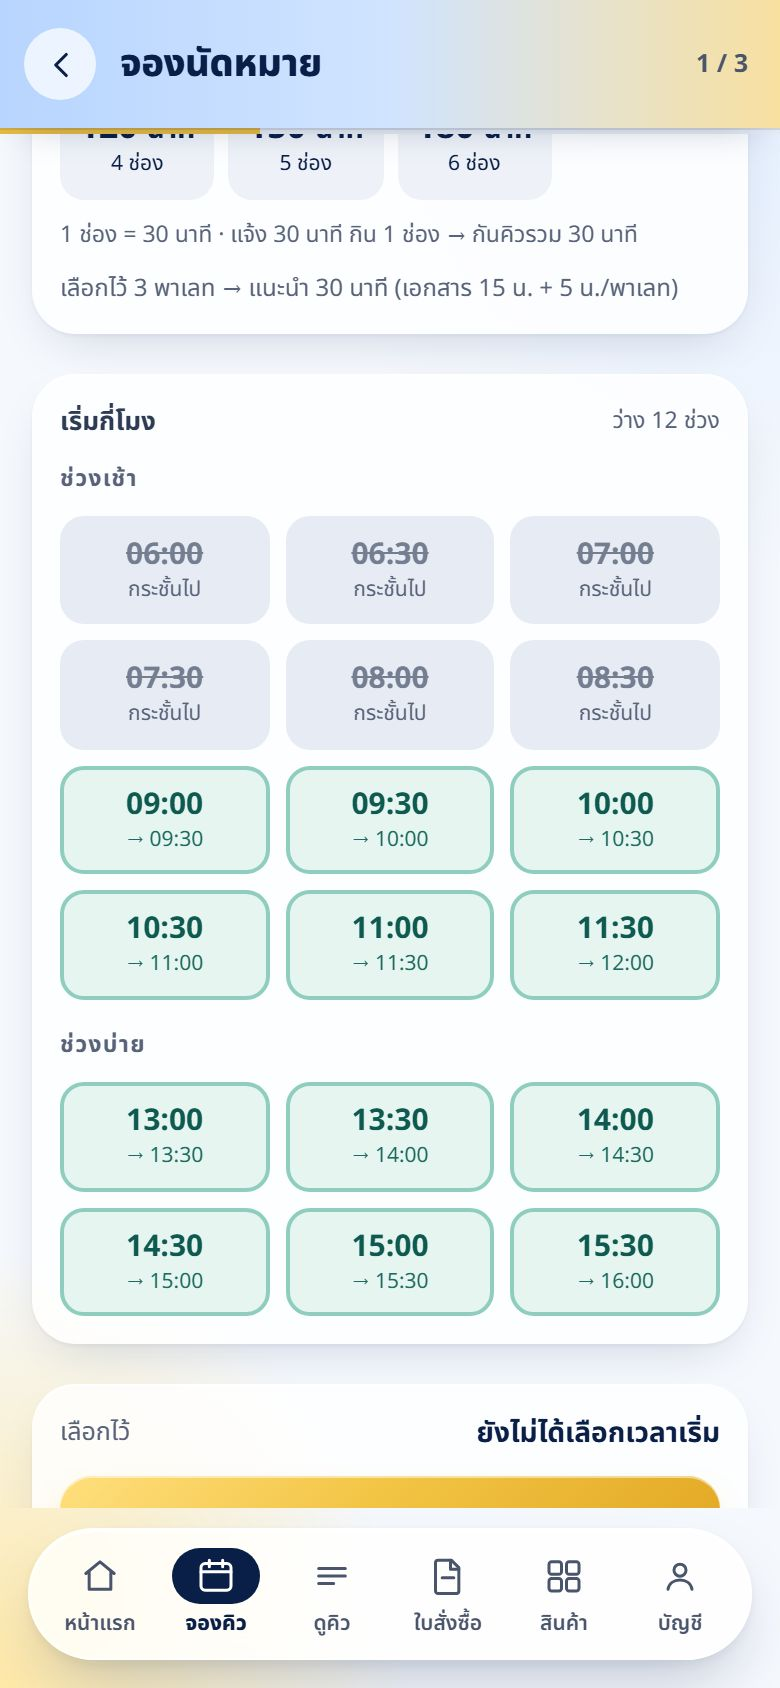
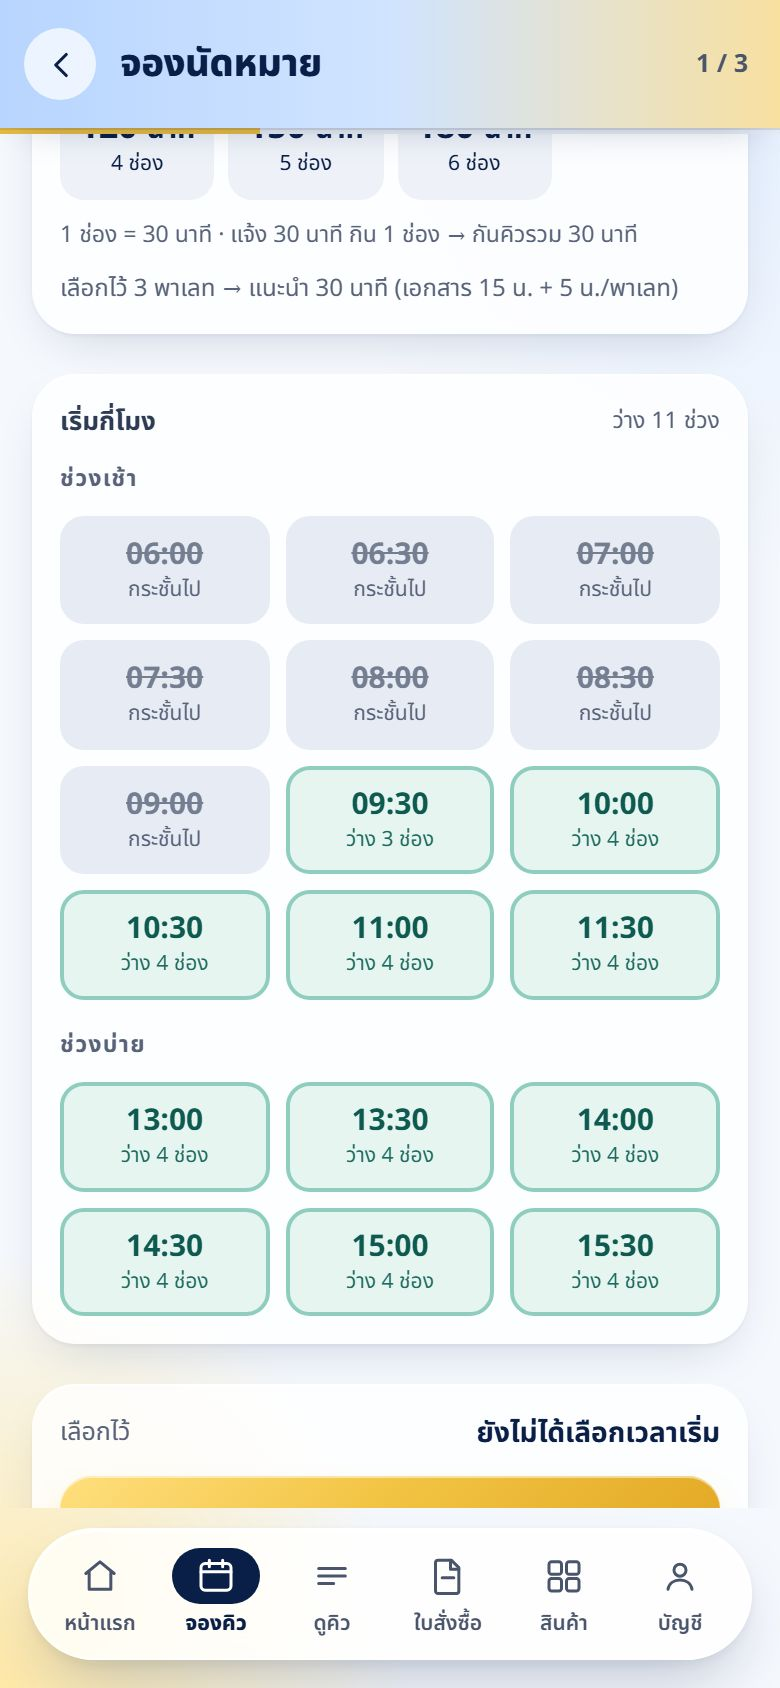
คู่มือซัพ v1.18.0 (จองคิว: เลือกรถ · ช่องว่างกี่คัน) · คู่มือจัดซื้อ v1.16.0 (งานค้าง · ตั้งค่าคิว)

diff --git a/supplylink-buyer-guide.html b/supplylink-buyer-guide.html
@@ -3,7 +3,7 @@
 <head>
 <meta charset="utf-8">
 <meta name="viewport" content="width=device-width,initial-scale=1,viewport-fit=cover">
-<title>คู่มือจัดซื้อ SupplyLink v1.15.0</title>
+<title>คู่มือจัดซื้อ SupplyLink v1.16.0</title>
 <link rel="preconnect" href="https://fonts.googleapis.com">
 <link href="https://fonts.googleapis.com/css2?family=Noto+Sans+Thai:wght@400;500;600;700&display=swap" rel="stylesheet">
 <style>
@@ -192,7 +192,7 @@ button{font:inherit;cursor:pointer}
 
 <script>
 (function () {
-  var VER = 'v1.15.0', APP = 'rattana-supplylink.html';
+  var VER = 'v1.16.0', APP = 'rattana-supplylink.html';
   var IMG = {"bb":"supplylink-buyer-guide/bb.jpg","bcl":"supplylink-buyer-guide/bcl.jpg","bclo":"supplylink-buyer-guide/bclo.jpg","bclp":"supplylink-buyer-guide/bclp.jpg","bcls":"supplylink-buyer-guide/bcls.jpg","bd":"supplylink-buyer-guide/bd.jpg","bdc":"supplylink-buyer-guide/bdc.jpg","bdh":"supplylink-buyer-guide/bdh.jpg","bdn":"supplylink-buyer-guide/bdn.jpg","bdq":"supplylink-buyer-guide/bdq.jpg","bdr":"supplylink-buyer-guide/bdr.jpg","bdw":"supplylink-buyer-guide/bdw.jpg","bh":"supplylink-buyer-guide/bh.jpg","binc":"supplylink-buyer-guide/binc.jpg","bmv":"supplylink-buyer-guide/bmv.jpg","boa":"supplylink-buyer-guide/boa.jpg","bob":"supplylink-buyer-guide/bob.jpg","boc":"supplylink-buyer-guide/boc.jpg","bod":"supplylink-buyer-guide/bod.jpg","boe":"supplylink-buyer-guide/boe.jpg","bpd":"supplylink-buyer-guide/bpd.jpg","bpo":"supplylink-buyer-guide/bpo.jpg","bpr":"supplylink-buyer-guide/bpr.jpg","bq":"supplylink-buyer-guide/bq.jpg","brv":"supplylink-buyer-guide/brv.jpg","brvb":"supplylink-buyer-guide/brvb.jpg","brvo":"supplylink-buyer-guide/brvo.jpg","btc":"supplylink-buyer-guide/btc.jpg","bvi1":"supplylink-buyer-guide/bvi1.jpg","bvi2":"supplylink-buyer-guide/bvi2.jpg","bvr":"supplylink-buyer-guide/bvr.jpg","bvt":"supplylink-buyer-guide/bvt.jpg","dwa":"supplylink-buyer-guide/dwa.jpg","own1":"supplylink-buyer-guide/own1.jpg","swa":"supplylink-buyer-guide/swa.jpg"}, RECTS = {"bb":{"drafts":[16,320,358,74],"review":[16,468,358,74],"incrv":[16,542,358,74],"claims":[16,246,358,74],"prop":[16,616,358,74],"tabbuyer":[319,765,50,64]},"bcl":{"due":[19,215,69,44],"sup":[90,215,69,44],"pay":[161,215,69,44],"calc":[30,474,330,44]},"bclo":{"save":[98,631,250,44]},"bclp":{"paid":[30,504,151,44]},"bcls":{"send":[107,511,99,44]},"bd":{"row":[16,371,358,180],"send":[276,776,92,46]},"bdc":{"diff":[187,90,74,44],"sendpo":[30,396,330,44]},"bdh":{"dw":[16,246,358,74]},"bdn":{"remind":[30,398,149,44]},"bdq":{"seq":[30,406,34,28]},"bdr":{"xls":[268,776,100,46],"row":[16,361,358,316]},"bdw":{"ok":[152,454,208,44],"back":[30,454,114,44]},"bh":{"mine":[18,102,85,44],"pend":[16,174,174,111],"rv":[200,174,174,111],"late":[16,295,174,111],"qt":[200,295,174,111],"nob":[16,425,358,74],"tabhome":[21,765,50,64],"tabqueue":[120,765,50,64],"tabpo":[170,765,50,64],"tabproducts":[220,765,50,64],"tabbuyer":[319,765,50,64]},"binc":{"row":[16,265,358,305],"camp":[30,406,330,46],"ok":[173,514,187,44],"no":[30,514,133,44]},"bmv":{"move":[16,601,358,48]},"boa":{"ob":[16,98,358,74]},"bob":{"row":[16,137,358,91]},"boc":{"docs":[16,267,358,173],"q":[53,502,309,26]},"bod":{"pick":[16,321,358,56],"rev":[16,525,358,44],"new":[16,433,358,58],"ok":[169,682,205,52],"no":[16,682,143,52]},"boe":{"pick":[16,170,358,56],"wh":[16,446,358,99],"ok":[169,682,205,52]},"bpd":{"back":[12,34,36,36]},"bpo":{"card":[16,268,358,107]},"bpr":{"row":[16,378,358,80],"pdf":[297,399,65,38]},"bq":{"row":[16,268,358,114],"meet":[117,204,79,44]},"brv":{"row":[64,276,310,128],"done":[105,92,87,44]},"brvb":{"ok":[169,682,205,52],"no":[16,682,143,52],"note":[30,550,330,68]},"brvo":{"diff":[16,103,358,172]},"btc":{"pick":[16,389,358,56],"chip":[295,398,66,20],"q":[53,262,275,26]},"bvi1":{"make":[16,682,358,52],"wh":[16,575,358,99]},"bvi2":{"line":[172,677,189,44],"copy":[29,677,133,44]},"bvr":{"reg":[16,172,358,74]},"bvt":{"wh":[29,292,332,99],"rev":[29,399,114,44],"q":[53,106,309,26]},"dwa":{"q":[54,92,308,26],"wait":[102,196,112,44],"row":[16,270,358,141]},"own1":{"box":[16,274,358,378]},"swa":{"tab":[119,140,109,44],"row":[16,214,358,118],"q":[54,92,308,26]}};                                       /* แทนด้วยรูปตอน build */
   var HAND = '<svg class="hand" viewBox="0 0 48 48" aria-hidden="true"><path d="M19 6c2 0 3.5 1.6 3.5 3.6V22l1-.1V18c0-2 1.6-3.4 3.4-3.4S30.3 16 30.3 18v4.4l1-.1v-2.6c0-1.9 1.5-3.3 3.3-3.3s3.3 1.5 3.3 3.3v3.6l.8-.1c1.8 0 3.3 1.5 3.3 3.3V34c0 6.6-5.4 12-12 12h-3.4c-3.8 0-7.4-1.8-9.6-4.9L8.5 30.6c-1-1.4-.7-3.4.7-4.4 1.4-1 3.3-.8 4.4.5l2 2.4V9.6C15.6 7.6 17.1 6 19 6z" fill="#fff" stroke="#0A1F47" stroke-width="2.4" stroke-linejoin="round"/></svg>';
   var FLOWCARD = function () {                              /* ส่งแล้วเกิดอะไรขึ้น: ซัพตอบ → จัดซื้อยืนยัน → เปิด PO จริง */
@@ -221,7 +221,7 @@ button{font:inherit;cursor:pointer}
   /* ตำแหน่งกรอบ '@รูป.จุด' = อ่านจากไฟล์ .json ที่ถ่ายพร้อมรูป (จอมือถือ 390×844) */
   var LESSONS = [
     { k:'home', t:'หน้าแรกจัดซื้อ · ดูทุกบริษัท', g:'หน้าแรกจัดซื้อ', s:'งานค้างทุกบริษัท', n:7, steps:[
-      { html:function () { return INFO('แท็บจัดซื้อ = เรื่องที่ต้องดู หน้าเดียว', [['ซัพแก้ PO', 'ซัพแก้จำนวน/ราคา/ของแถม รอเราตรวจ'], ['นัดแล้วไม่มา', 'จองคิวส่งแล้ว เลยวันนัด ของยังไม่เข้า'], ['เลยกำหนดส่ง', 'ซัพยืนยันแล้ว เลยวันส่ง ยังไม่จองคิว'], ['ยังไม่ยืนยัน', 'ส่ง PO ไปเกิน 2 วัน ซัพยังไม่กดยืนยัน'], ['สินค้าใหม่ · รายได้อื่น · ขอเปิดบัญชี · รอผูกรหัส · ใบร่าง · เคลม', 'เรื่องอื่นที่รอเรา'], ['ปุ่มพิมพ์รวมวันนี้', 'ใบสั่งซื้อที่ตกลง · ใบเสนอสินค้าใหม่ · รายได้อื่น ของวันนี้ ต่อกันเป็น PDF ไฟล์เดียว กดพิมพ์ครั้งเดียว'], ['อ่านยังไง', 'คอลัมน์ซ้าย = เรื่องอะไร · ขวา = รอ/เลยมากี่วัน · นานสุดอยู่บน · แตะแถว = ไปทำเรื่องนั้นเลย · ทางลัดเดิมอยู่ใน "เมนูจัดซื้อ · เอกสารทั้งหมด" ท้ายรายการ']]); } },
+      { html:function () { return INFO('แท็บจัดซื้อ = งานค้างทั้งหมด หน้าเดียว', [['เลือกจัดซื้อ', 'ค่าเริ่ม = ทุกคน · แตะชื่อตัวเอง = เฉพาะบริษัทที่ตัวเองดูแล (Vendor_data ผู้รับผิดชอบ) แอปจำไว้'], ['การ์ดตัวเลข', 'แต่ละเรื่องมีคำอธิบาย · แตะการ์ด = กรองเฉพาะเรื่องนั้น'], ['เรียง', 'ล่าสุดก่อน หรือ ค้างนานสุดก่อน · บนคอมเป็นตาราง มีคอลัมน์จัดซื้อที่ดูแล + เข้ามาเมื่อ'], ['ตั้งค่าคิวลงสินค้า', 'เมนูจัดซื้อ › ตั้งค่าคิวลงสินค้า: ลงพร้อมกันกี่คัน · รับบิลแรก/สุดท้าย · ทุกกี่นาที · พัก · กฎรถ (เช่น กระบะลงเสร็จก่อน 12:00) แก้ในแอป ไม่ต้องแก้ชีท'], ['ซัพแก้ PO', 'ซัพแก้จำนวน/ราคา/ของแถม รอเราตรวจ'], ['นัดแล้วไม่มา', 'จองคิวส่งแล้ว เลยวันนัด ของยังไม่เข้า'], ['เลยกำหนดส่ง', 'ซัพยืนยันแล้ว เลยวันส่ง ยังไม่จองคิว'], ['ยังไม่ยืนยัน', 'ส่ง PO ไปเกิน 2 วัน ซัพยังไม่กดยืนยัน'], ['สินค้าใหม่ · รายได้อื่น · ขอเปิดบัญชี · รอผูกรหัส · ใบร่าง · เคลม', 'เรื่องอื่นที่รอเรา'], ['ปุ่มพิมพ์รวมวันนี้', 'ใบสั่งซื้อที่ตกลง · ใบเสนอสินค้าใหม่ · รายได้อื่น ของวันนี้ ต่อกันเป็น PDF ไฟล์เดียว กดพิมพ์ครั้งเดียว'], ['อ่านยังไง', 'คอลัมน์ซ้าย = เรื่องอะไร · ขวา = รอ/เลยมากี่วัน · นานสุดอยู่บน · แตะแถว = ไปทำเรื่องนั้นเลย · ทางลัดเดิมอยู่ใน "เมนูจัดซื้อ · เอกสารทั้งหมด" ท้ายรายการ']]); } },
       { img:'bh', r:'@bh.mine', h:'ดูเฉพาะบริษัทที่ดูแล', d:'แตะ "ที่ฉันดูแล" ตัวเลขทุกช่องเหลือเฉพาะซัพของคุณ · "ทุกบริษัท" = ทั้งทีม' },
       { img:'bh', r:'@bh.pend', h:'รอซัพยืนยัน', d:'PO ที่ซัพยังไม่ตอบ ตัวล่างบอกว่าเลยกำหนดส่งกี่ใบ แตะเพื่อดูรายการ' },
       { img:'bpo', r:'@bpo.card', h:'ใบสั่งซื้อรวมทุกบริษัท', d:'กรองไว้ให้แล้ว มีชื่อบริษัทกำกับทุกใบ แตะใบไหน แอปเปิดบริษัทนั้นให้เอง ไม่ต้องเลือกก่อน' },

diff --git a/supplylink-guide.html b/supplylink-guide.html
@@ -3,7 +3,7 @@
 <head>
 <meta charset="utf-8">
 <meta name="viewport" content="width=device-width,initial-scale=1,viewport-fit=cover">
-<title>ฝึกใช้ SupplyLink v1.17.0</title>
+<title>ฝึกใช้ SupplyLink v1.18.0</title>
 <link rel="preconnect" href="https://fonts.googleapis.com">
 <link href="https://fonts.googleapis.com/css2?family=Noto+Sans+Thai:wght@400;500;600;700&display=swap" rel="stylesheet">
 <style>
@@ -138,7 +138,7 @@ button{font:inherit;cursor:pointer}
 
 <script>
 (function () {
-  var VER = 'v1.17.0', APP = 'https://liff.line.me/2011693023-xbdsN1K7';
+  var VER = 'v1.18.0', APP = 'https://liff.line.me/2011693023-xbdsN1K7';
   var IMG = {"h0":"supplylink-guide/h0.jpg","hinc":"supplylink-guide/hinc.jpg","hdef":"supplylink-guide/hdef.jpg","hpo":"supplylink-guide/hpo.jpg","s2":"supplylink-guide/s2.jpg","s4":"supplylink-guide/s4.jpg","s5":"supplylink-guide/s5.jpg","s6":"supplylink-guide/s6.jpg","s7":"supplylink-guide/s7.jpg","s9":"supplylink-guide/s9.jpg","s10":"supplylink-guide/s10.jpg","s11":"supplylink-guide/s11.jpg","z1":"supplylink-guide/z1.jpg","zm":"supplylink-guide/zm.jpg","zt":"supplylink-guide/zt.jpg","zs":"supplylink-guide/zs.jpg","zi":"supplylink-guide/zi.jpg","q1":"supplylink-guide/q1.jpg","q2":"supplylink-guide/q2.jpg","q3":"supplylink-guide/q3.jpg","q4":"supplylink-guide/q4.jpg","q5":"supplylink-guide/q5.jpg","q6":"supplylink-guide/q6.jpg","q7":"supplylink-guide/q7.jpg","q8":"supplylink-guide/q8.jpg","x1":"supplylink-guide/x1.jpg","x2":"supplylink-guide/x2.jpg","x3":"supplylink-guide/x3.jpg","x4":"supplylink-guide/x4.jpg","x5":"supplylink-guide/x5.jpg","x6":"supplylink-guide/x6.jpg","x7":"supplylink-guide/x7.jpg","a2":"supplylink-guide/a2.jpg","a3":"supplylink-guide/a3.jpg","a5":"supplylink-guide/a5.jpg","d2":"supplylink-guide/d2.jpg","a4":"supplylink-guide/a4.jpg","d3":"supplylink-guide/d3.jpg","d4":"supplylink-guide/d4.jpg","p1":"supplylink-guide/p1.jpg","p1b":"supplylink-guide/p1b.jpg","b2":"supplylink-guide/b2.jpg","b3":"supplylink-guide/b3.jpg","p5":"supplylink-guide/p5.jpg","c2":"supplylink-guide/c2.jpg","c3":"supplylink-guide/c3.jpg","k1":"supplylink-guide/k1.jpg","k2":"supplylink-guide/k2.jpg","k3":"supplylink-guide/k3.jpg","k4":"supplylink-guide/k4.jpg","k5":"supplylink-guide/k5.jpg","k6":"supplylink-guide/k6.jpg","k7":"supplylink-guide/k7.jpg","k9":"supplylink-guide/k9.jpg","k10":"supplylink-guide/k10.jpg","k11":"supplylink-guide/k11.jpg","n1":"supplylink-guide/n1.jpg","n2":"supplylink-guide/n2.jpg","n3":"supplylink-guide/n3.jpg","n4":"supplylink-guide/n4.jpg","n5":"supplylink-guide/n5.jpg","n6":"supplylink-guide/n6.jpg","n7":"supplylink-guide/n7.jpg","n8":"supplylink-guide/n8.jpg","n9":"supplylink-guide/n9.jpg","g1":"supplylink-guide/g1.jpg","g2":"supplylink-guide/g2.jpg","g3":"supplylink-guide/g3.jpg","g4":"supplylink-guide/g4.jpg","m1":"supplylink-guide/m1.jpg","m2":"supplylink-guide/m2.jpg","m3":"supplylink-guide/m3.jpg","m4":"supplylink-guide/m4.jpg","m5":"supplylink-guide/m5.jpg","f1":"supplylink-guide/f1.jpg","f2":"supplylink-guide/f2.jpg","f3":"supplylink-guide/f3.jpg","f4":"supplylink-guide/f4.jpg","dws":"supplylink-guide/dws.jpg","dwh":"supplylink-guide/dwh.jpg","stk":"supplylink-guide/stk.jpg","stk2":"supplylink-guide/stk2.jpg","stkh":"supplylink-guide/stkh.jpg","cbi":"supplylink-guide/cbi.jpg","cb1":"supplylink-guide/cb1.jpg","cb2":"supplylink-guide/cb2.jpg","cb3":"supplylink-guide/cb3.jpg","cbp":"supplylink-guide/cbp.jpg","ot0":"supplylink-guide/ot0.jpg","prof1":"supplylink-guide/prof1.jpg","who1":"supplylink-guide/who1.jpg","mv1":"supplylink-guide/mv1.jpg","mv2":"supplylink-guide/mv2.jpg","aseq":"supplylink-guide/aseq.jpg","inv1":"supplylink-guide/inv1.jpg","ot1":"supplylink-guide/ot1.jpg","ot2":"supplylink-guide/ot2.jpg","ot3":"supplylink-guide/ot3.jpg"};                                       /* แทนด้วยรูปตอน build */
   var HAND = '<svg class="hand" viewBox="0 0 48 48" aria-hidden="true"><path d="M19 6c2 0 3.5 1.6 3.5 3.6V22l1-.1V18c0-2 1.6-3.4 3.4-3.4S30.3 16 30.3 18v4.4l1-.1v-2.6c0-1.9 1.5-3.3 3.3-3.3s3.3 1.5 3.3 3.3v3.6l.8-.1c1.8 0 3.3 1.5 3.3 3.3V34c0 6.6-5.4 12-12 12h-3.4c-3.8 0-7.4-1.8-9.6-4.9L8.5 30.6c-1-1.4-.7-3.4.7-4.4 1.4-1 3.3-.8 4.4.5l2 2.4V9.6C15.6 7.6 17.1 6 19 6z" fill="#fff" stroke="#0A1F47" stroke-width="2.4" stroke-linejoin="round"/></svg>';
   var FLOWCARD = function () {                              /* ส่งแล้วเกิดอะไรขึ้น: ซัพตอบ → จัดซื้อยืนยัน → เปิด PO จริง */
@@ -230,8 +230,8 @@ button{font:inherit;cursor:pointer}
       { img:'h0', r:[79, 765, 58, 64], h:'หน้าแรก › จองคิว', d:'แตะเมนู "จองคิว" แถบล่าง' },
       { img:'k1', r:[30, 126, 78, 44], h:'นัดเรื่องอะไร', d:'ส่งของเข้าคลัง แตะ "ลงสินค้า"' },
       { img:'k2', r:[30, 378, 330, 64], h:'ติ๊กใบสั่งซื้อที่จะส่ง', d:'ติ๊กได้หลายใบ ถ้าส่งคลังเดียวกันรวมเที่ยวเดียวได้' },
-      { img:'k3', r:[140, 377, 50, 68], h:'เลือกวันที่', d:'วันที่เป็นสีเทา = คิวเต็มหรือคลังหยุด' },
-      { img:'k4', r:[30, 384, 105, 55], h:'เลือกเวลาเริ่ม', d:'ใช้เวลากี่นาที แอปคิดจากจำนวนพาเลทให้แล้ว เปลี่ยนได้' },
+      { img:'k3', r:[140, 377, 50, 68], h:'เลือกรถ แล้วเลือกวันที่', d:'เลือกประเภทรถก่อน (แต่ละคลังรับรถบางแบบได้ถึงบางเวลา) · วันที่สีเทา = คิวเต็มหรือคลังหยุด' },
+      { img:'k4', r:[143, 383, 105, 55], h:'เลือกเวลาเริ่ม', d:'ช่องบอกว่าว่างอีกกี่คัน · สีเทา = เต็มแล้ว หรือรถที่เลือกเข้าเวลานั้นไม่ได้ · ใครจองก่อนได้ก่อน ถ้ามีคนจองตัดหน้า แอปเสนอเวลาว่างใกล้สุดให้แตะแทน' },
       { img:'k5', r:[30, 668, 330, 52], h:'กด "ถัดไป"', d:'ตรวจวันเวลาและคลังที่ส่งอีกครั้ง' },
       { img:'k6', r:[30, 584, 330, 56], h:'ใส่รถ ติ๊กรับทราบ', d:'ทะเบียน/คนขับ ยังไม่รู้เว้นว่างได้ · ติ๊กรับทราบเรื่องแนบใบสั่งซื้อ' },
       { img:'k7', r:[16, 686, 358, 52], h:'กด "ยืนยันการจอง"', d:'จองแล้วได้บัตรคิวทันที' },
